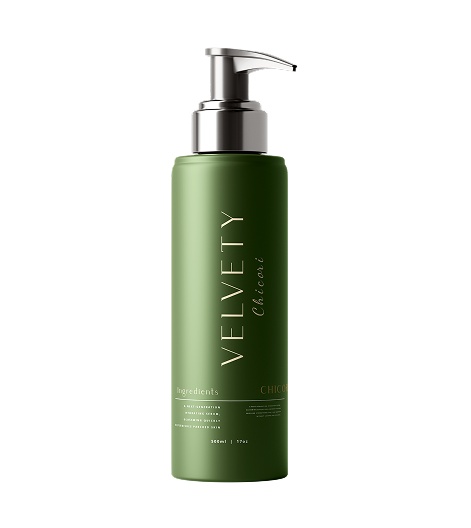
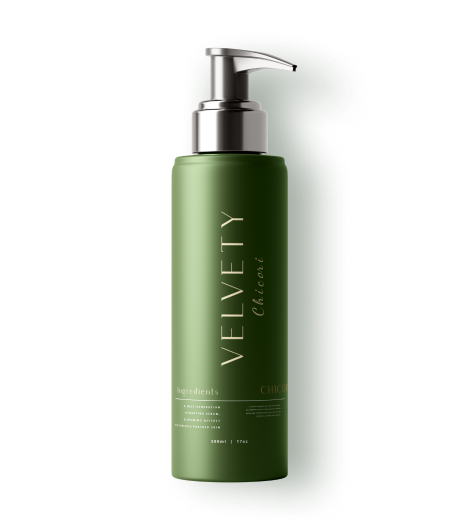
Build skindiagnosis section and update other sections code

diff --git a/src/components/SkinDiagnosis/SkinDiagnosis.jsx b/src/components/SkinDiagnosis/SkinDiagnosis.jsx
@@ -1,0 +1,121 @@
+import { useEffect, useRef, useState } from "react";
+
+import diagnosisImage from "../../assets/images/skin-diagnosis.png";
+
+const containerClass =
+  "mx-auto w-[min(calc(100%_-_128px),1380px)] max-[1600px]:w-[min(calc(100%_-_112px),1320px)] max-[1440px]:w-[min(calc(100%_-_96px),1240px)] max-[1280px]:w-[min(calc(100%_-_96px),1180px)] max-[1024px]:w-[calc(100%_-_72px)] max-[880px]:w-[calc(100%_-_48px)] max-[767px]:w-[calc(100%_-_30px)] max-[360px]:w-[calc(100%_-_26px)]";
+
+const sectionLabelClass =
+  "mb-[24px] mt-0 font-['Inter',sans-serif] text-[30px] font-normal leading-none tracking-[-0.035em] text-[#8fa58d] max-[1280px]:text-[26px] max-[767px]:mb-[16px] max-[767px]:text-[20px]";
+
+const sectionHeadingClass =
+  "m-0 font-['Cormorant_Garamond',serif] text-[clamp(58px,4.45vw,84px)] font-light leading-[1.08] tracking-[-0.056em] text-[#243f2a] max-[1440px]:text-[clamp(54px,4.6vw,74px)] max-[1280px]:text-[clamp(50px,4.65vw,64px)] max-[1024px]:text-[clamp(52px,6.2vw,68px)] max-[767px]:text-[clamp(38px,11vw,54px)] max-[430px]:text-[40px]";
+
+const ArrowIcon = ({ className = "" }) => (
+  <svg viewBox="0 0 64 24" aria-hidden="true" className={className}>
+    <path
+      d="M1 12H51"
+      fill="none"
+      stroke="currentColor"
+      strokeWidth="1.55"
+      strokeLinecap="round"
+      strokeLinejoin="round"
+    />
+    <path
+      d="M42 3C47 8 52 11 62 12C52 13 47 16 42 21"
+      fill="none"
+      stroke="currentColor"
+      strokeWidth="1.55"
+      strokeLinecap="round"
+      strokeLinejoin="round"
+    />
+  </svg>
+);
+
+const SkinDiagnosis = () => {
+  const sectionRef = useRef(null);
+  const [isVisible, setIsVisible] = useState(false);
+
+  useEffect(() => {
+    const currentSection = sectionRef.current;
+
+    if (!currentSection) return;
+
+    const observer = new IntersectionObserver(
+      ([entry]) => {
+        if (entry.isIntersecting) {
+          setIsVisible(true);
+        }
+      },
+      {
+        threshold: 0.18,
+      }
+    );
+
+    observer.observe(currentSection);
+
+    return () => observer.disconnect();
+  }, []);
+
+  const leftAnimation = isVisible
+    ? "translate-x-0 opacity-100 blur-0"
+    : "-translate-x-[34px] opacity-0 blur-[8px]";
+
+  const rightAnimation = isVisible
+    ? "translate-x-0 opacity-100 blur-0"
+    : "translate-x-[34px] opacity-0 blur-[8px]";
+
+  return (
+    <section
+      ref={sectionRef}
+      id="diagnosis"
+      className="relative z-0 w-full overflow-hidden border-b border-[#8fa58d]/35 bg-[#f2f6ef]"
+    >
+      {/* ==================== Skin Diagnosis Content ==================== */}
+      <div
+        className={`${containerClass} grid min-h-[clamp(500px,37vw,620px)] grid-cols-[42.5%_1fr] items-center gap-[clamp(70px,6vw,108px)] py-[clamp(66px,5.2vw,88px)] max-[1440px]:grid-cols-[43.5%_1fr] max-[1440px]:gap-[70px] max-[1280px]:grid-cols-[42%_1fr] max-[1280px]:gap-[58px] max-[1024px]:min-h-0 max-[1024px]:grid-cols-1 max-[1024px]:gap-[38px] max-[1024px]:py-[74px] max-[767px]:gap-[24px] max-[767px]:py-[56px]`}
+      >
+        {/* ==================== Left Image ==================== */}
+        <div
+          className={`relative mx-auto flex h-[clamp(320px,27vw,430px)] w-[min(100%,500px)] items-center justify-center transition-all duration-[950ms] ease-[cubic-bezier(0.22,1,0.36,1)] max-[1280px]:h-[390px] max-[1024px]:h-[360px] max-[767px]:h-[290px] max-[430px]:h-[260px] ${leftAnimation}`}
+        >
+          <img
+            src={diagnosisImage}
+            alt="Floral face line art"
+            className="block h-full w-full object-contain"
+          />
+        </div>
+
+        {/* ==================== Right Content ==================== */}
+        <div
+          className={`max-w-[760px] pb-[4px] transition-all delay-[120ms] duration-[950ms] ease-[cubic-bezier(0.22,1,0.36,1)] max-[1024px]:mx-auto max-[1024px]:max-w-[720px] max-[1024px]:pb-0 max-[1024px]:text-center ${rightAnimation}`}
+        >
+          <p className={sectionLabelClass}>Try Our Service</p>
+
+          <h2 className={sectionHeadingClass}>
+            <span className="block whitespace-nowrap max-[1024px]:whitespace-normal">
+              Your skin diagnosis in
+            </span>
+            <span className="block">3 minutes</span>
+          </h2>
+
+          <p className="mb-0 mt-[32px] max-w-[700px] font-['Inter',sans-serif] text-[clamp(20px,1.42vw,24px)] font-normal leading-[1.34] tracking-[-0.058em] text-[#4f744e] max-[1280px]:mt-[26px] max-[1280px]:text-[21px] max-[1024px]:mx-auto max-[767px]:mt-[20px] max-[767px]:text-[18px] max-[767px]:leading-[1.46]">
+            Say hello to a more radiant, healthier you with personalized
+            skincare that&apos;s as unique as you are.
+          </p>
+
+          <a
+            href="#contact"
+            className="group mt-[46px] inline-flex h-[64px] w-[306px] items-center justify-center gap-[20px] border border-[#243f2a] bg-transparent font-['Inter',sans-serif] text-[20px] font-normal leading-none tracking-[-0.045em] text-[#243f2a] no-underline transition duration-300 hover:bg-[#243f2a] hover:text-[#f7faf4] max-[1280px]:mt-[38px] max-[1280px]:h-[60px] max-[1280px]:w-[286px] max-[1280px]:text-[19px] max-[767px]:mt-[32px] max-[767px]:h-[54px] max-[767px]:w-[244px] max-[767px]:gap-[15px] max-[767px]:text-[16px]"
+          >
+            <span>Start my diagnosis</span>
+
+            <ArrowIcon className="h-[18px] w-[34px] transition-transform duration-300 group-hover:translate-x-[6px] max-[767px]:h-[17px] max-[767px]:w-[30px]" />
+          </a>
+        </div>
+      </div>
+    </section>
+  );
+};
+
+export default SkinDiagnosis;

diff --git a/src/components/AboutSection/AboutSection.jsx b/src/components/AboutSection/AboutSection.jsx
@@ -11,6 +11,15 @@ import "./AboutSection.css";
 const containerClass =
   "mx-auto w-[min(calc(100%_-_128px),1380px)] max-[1600px]:w-[min(calc(100%_-_112px),1320px)] max-[1440px]:w-[min(calc(100%_-_96px),1240px)] max-[1280px]:w-[min(calc(100%_-_96px),1180px)] max-[1024px]:w-[calc(100%_-_72px)] max-[880px]:w-[calc(100%_-_48px)] max-[767px]:w-[calc(100%_-_30px)] max-[360px]:w-[calc(100%_-_26px)]";
 
+const sectionLabelClass =
+  "mb-[24px] mt-0 font-['Inter',sans-serif] text-[30px] font-normal leading-none tracking-[-0.035em] text-[#8fa58d] max-[1280px]:text-[26px] max-[767px]:mb-[16px] max-[767px]:text-[20px]";
+
+const sectionHeadingClass =
+  "m-0 font-['Cormorant_Garamond',serif] text-[clamp(56px,4.2vw,82px)] font-light leading-[1.08] tracking-[-0.056em] text-[#243f2a] max-[1440px]:text-[clamp(50px,4.35vw,62px)] max-[1280px]:text-[clamp(48px,4.25vw,58px)] max-[1024px]:text-[clamp(52px,6.2vw,68px)] max-[767px]:text-[clamp(38px,11vw,54px)] max-[430px]:text-[40px]";
+
+const bodyTextClass =
+  "font-['Inter',sans-serif] text-[clamp(20px,1.42vw,24px)] font-normal leading-[1.34] tracking-[-0.058em] text-[#4f744e] max-[1280px]:text-[21px] max-[767px]:text-[18px] max-[767px]:leading-[1.46]";
+
 const brandLogos = [
   {
     id: 1,
@@ -107,35 +116,38 @@ const AboutSection = () => {
     <section
       ref={sectionRef}
       id="about"
-      className="relative w-full overflow-hidden bg-[#f2f6ef]"
+      className="relative z-0 w-full overflow-hidden border-b border-[#8fa58d]/35 bg-[#f2f6ef]"
     >
       {/* ==================== About Content ==================== */}
       <div
-        className={`${containerClass} grid grid-cols-[45.85%_1fr] gap-[clamp(74px,7vw,128px)] pb-[clamp(88px,6.2vw,116px)] pt-[clamp(84px,6.35vw,118px)] max-[1280px]:gap-[68px] max-[1024px]:grid-cols-1 max-[1024px]:gap-[44px] max-[1024px]:pb-[78px] max-[1024px]:pt-[76px] max-[767px]:gap-[32px] max-[767px]:pb-[58px] max-[767px]:pt-[56px]`}
+        className={`${containerClass} grid grid-cols-[46.8%_1fr] gap-[clamp(70px,6.4vw,118px)] pb-[clamp(86px,6vw,112px)] pt-[clamp(84px,6.2vw,116px)] max-[1440px]:grid-cols-[48.5%_1fr] max-[1440px]:gap-[70px] max-[1280px]:gap-[60px] max-[1024px]:grid-cols-1 max-[1024px]:gap-[44px] max-[1024px]:pb-[78px] max-[1024px]:pt-[76px] max-[767px]:gap-[32px] max-[767px]:pb-[58px] max-[767px]:pt-[56px]`}
       >
         <div
-          className={`transition-all duration-[950ms] ease-[cubic-bezier(0.22,1,0.36,1)] ${leftAnimation}`}
+          className={`max-w-[720px] transition-all duration-[950ms] ease-[cubic-bezier(0.22,1,0.36,1)] ${leftAnimation}`}
         >
-          <p className="mb-[26px] mt-0 font-['Inter',sans-serif] text-[clamp(24px,1.9vw,34px)] font-normal leading-none tracking-[-0.055em] text-[#8fa58d] max-[767px]:mb-[18px] max-[767px]:text-[22px]">
-            About us
-          </p>
+          <p className={sectionLabelClass}>About us</p>
 
-          <h2 className="m-0 max-w-[610px] font-['Cormorant_Garamond',serif] text-[clamp(58px,4.9vw,84px)] font-light leading-[1.08] tracking-[-0.058em] text-[#243f2a] max-[1440px]:text-[clamp(54px,5vw,76px)] max-[1024px]:max-w-[720px] max-[767px]:text-[clamp(42px,12vw,58px)]">
-            Velvety facial and skincare company
+          <h2 className={sectionHeadingClass}>
+            <span className="block whitespace-nowrap max-[767px]:whitespace-normal">
+              Velvety facial and
+            </span>
+            <span className="block whitespace-nowrap max-[767px]:whitespace-normal">
+              skincare company
+            </span>
           </h2>
         </div>
 
         <div
           className={`pt-[4px] transition-all delay-[120ms] duration-[950ms] ease-[cubic-bezier(0.22,1,0.36,1)] max-[1024px]:pt-0 ${rightAnimation}`}
         >
-          <p className="m-0 max-w-[730px] font-['Inter',sans-serif] text-[clamp(20px,1.42vw,24px)] font-normal leading-[1.34] tracking-[-0.058em] text-[#4f744e] max-[1280px]:text-[21px] max-[767px]:text-[18px] max-[767px]:leading-[1.46]">
+          <p className={`m-0 max-w-[730px] ${bodyTextClass}`}>
             Velvety is an indigenous company that specializes in the manufacture
             and development of facial and skincare products using the medicinal
             properties of the traditional First Nations pharmacopoeia, with a
             concern for sustainable development.
           </p>
 
-          <p className="mb-0 mt-[36px] max-w-[800px] font-['Inter',sans-serif] text-[clamp(20px,1.42vw,24px)] font-normal leading-[1.34] tracking-[-0.058em] text-[#4f744e] max-[1280px]:text-[21px] max-[767px]:mt-[24px] max-[767px]:text-[18px] max-[767px]:leading-[1.46]">
+          <p className={`mb-0 mt-[36px] max-w-[800px] max-[767px]:mt-[24px] ${bodyTextClass}`}>
             The products offered, whose benefits have been scientifically
             confirmed, are 100% natural and allow you to take care of your body
             and mind: calming teas, energizing infusions, anti-inflammatory
@@ -144,13 +156,9 @@ const AboutSection = () => {
         </div>
       </div>
 
-      {/* ==================== Divider ==================== */}
+      {/* ==================== Stable Divider ==================== */}
       <div className={containerClass}>
-        <div
-          className={`h-px w-full origin-left bg-[#8fa58d]/30 transition-transform duration-[1100ms] ease-[cubic-bezier(0.22,1,0.36,1)] ${
-            isVisible ? "scale-x-100" : "scale-x-0"
-          }`}
-        />
+        <div className="h-px w-full bg-[#8fa58d]/30" />
       </div>
 
       {/* ==================== Brand Logos ==================== */}
@@ -158,7 +166,7 @@ const AboutSection = () => {
         className={`${containerClass} pb-[clamp(76px,6.1vw,108px)] pt-[clamp(82px,6.25vw,116px)] max-[1024px]:pb-[76px] max-[1024px]:pt-[72px] max-[767px]:pb-[58px] max-[767px]:pt-[52px]`}
       >
         <p
-          className={`mb-[clamp(48px,3.85vw,70px)] mt-0 font-['Inter',sans-serif] text-[clamp(24px,1.9vw,34px)] font-normal leading-none tracking-[-0.055em] text-[#8fa58d] transition-all delay-[160ms] duration-[900ms] ease-[cubic-bezier(0.22,1,0.36,1)] max-[767px]:mb-[34px] max-[767px]:text-[22px] ${upAnimation}`}
+          className={`mb-[clamp(48px,3.85vw,70px)] mt-0 font-['Inter',sans-serif] text-[30px] font-normal leading-none tracking-[-0.035em] text-[#8fa58d] transition-all delay-[160ms] duration-[900ms] ease-[cubic-bezier(0.22,1,0.36,1)] max-[1280px]:text-[26px] max-[767px]:mb-[34px] max-[767px]:text-[20px] ${upAnimation}`}
         >
           As seen in
         </p>

diff --git a/src/components/AllProducts/AllProducts.jsx b/src/components/AllProducts/AllProducts.jsx
@@ -8,6 +8,15 @@ import lightcoolImage from "../../assets/images/all-products/all-lightcool.png";
 const containerClass =
   "mx-auto w-[min(calc(100%_-_128px),1380px)] max-[1600px]:w-[min(calc(100%_-_112px),1320px)] max-[1440px]:w-[min(calc(100%_-_96px),1240px)] max-[1280px]:w-[min(calc(100%_-_96px),1180px)] max-[1024px]:w-[calc(100%_-_72px)] max-[880px]:w-[calc(100%_-_48px)] max-[767px]:w-[calc(100%_-_30px)] max-[360px]:w-[calc(100%_-_26px)]";
 
+const sectionLabelClass =
+  "mb-[24px] mt-0 font-['Inter',sans-serif] text-[30px] font-normal leading-none tracking-[-0.035em] text-[#8fa58d] max-[1280px]:text-[26px] max-[767px]:mb-[16px] max-[767px]:text-[20px]";
+
+const sectionHeadingClass =
+  "m-0 max-w-[520px] font-['Cormorant_Garamond',serif] text-[clamp(56px,4.2vw,82px)] font-light leading-[1.08] tracking-[-0.056em] text-[#243f2a] max-[1440px]:text-[clamp(52px,4.25vw,72px)] max-[1280px]:text-[clamp(48px,4.9vw,64px)] max-[767px]:text-[clamp(38px,11vw,54px)] max-[430px]:text-[40px]";
+
+const shopButtonClass =
+  "group mx-auto mt-[42px] flex h-[64px] w-[206px] items-center justify-center gap-[20px] border border-[#243f2a] bg-transparent font-['Inter',sans-serif] text-[20px] font-normal leading-none tracking-[-0.045em] text-[#243f2a] no-underline transition duration-300 hover:bg-[#243f2a] hover:text-[#f7faf4] max-[1280px]:mt-[38px] max-[1280px]:h-[60px] max-[1280px]:w-[190px] max-[1280px]:text-[19px] max-[767px]:mt-[34px] max-[767px]:h-[54px] max-[767px]:w-[160px] max-[767px]:gap-[14px] max-[767px]:text-[16px]";
+
 const tabs = [
   { id: "all-needs", label: "All needs" },
   { id: "protect", label: "Protect" },
@@ -123,7 +132,7 @@ const CartIcon = () => (
       fill="currentColor"
     />
     <path
-      d="M18 21C18.5523 21 19 20.5523 19 20C19 19.4477 18.5523 19 18 19C17.4477 19 17 19.4477 17 20C17 20.5523 17.4477 21 18 21Z"
+      d="M18 21C18.5523 21 19 20.5523 19 20C19 19.4477 18.5523 19 18 19C17.4477 19 17 20.5523 17 20C17 20.5523 17.4477 21 18 21Z"
       fill="currentColor"
     />
   </svg>
@@ -364,11 +373,14 @@ const AllProducts = () => {
     <section
       ref={sectionRef}
       id="all-products"
-      className="relative w-full overflow-hidden border-y border-[#8fa58d]/35 bg-[#f2f6ef]"
+      className="relative z-0 w-full overflow-hidden bg-[#f2f6ef]"
     >
+      {/* ==================== Top Border ==================== */}
+      <div className="h-px w-full bg-[#8fa58d]/35" />
+
       {/* ==================== Main Layout ==================== */}
       <div
-        className={`${containerClass} grid min-h-[clamp(900px,70vw,1120px)] grid-cols-[42.2%_1fr] gap-[clamp(58px,6.1vw,96px)] pb-[clamp(72px,6vw,98px)] pt-[clamp(82px,6.6vw,112px)] max-[1280px]:grid-cols-[43%_1fr] max-[1280px]:gap-[54px] max-[1024px]:min-h-0 max-[1024px]:grid-cols-1 max-[1024px]:gap-[58px] max-[1024px]:pb-[78px] max-[1024px]:pt-[76px] max-[767px]:gap-[42px] max-[767px]:pb-[58px] max-[767px]:pt-[56px]`}
+        className={`${containerClass} grid grid-cols-[42.2%_1fr] gap-[clamp(58px,6.1vw,96px)] pb-[clamp(74px,5.65vw,96px)] pt-[clamp(82px,6.2vw,108px)] max-[1280px]:grid-cols-[43%_1fr] max-[1280px]:gap-[54px] max-[1024px]:grid-cols-1 max-[1024px]:gap-[58px] max-[1024px]:pb-[78px] max-[1024px]:pt-[76px] max-[767px]:gap-[42px] max-[767px]:pb-[58px] max-[767px]:pt-[56px]`}
       >
         {/* ==================== Left Content ==================== */}
         <div
@@ -378,11 +390,9 @@ const AllProducts = () => {
               : "-translate-x-[34px] opacity-0 blur-[8px]"
           }`}
         >
-          <p className="mb-[24px] mt-0 font-['Inter',sans-serif] text-[clamp(22px,1.75vw,30px)] font-normal leading-none tracking-[-0.055em] text-[#8fa58d] max-[767px]:mb-[18px] max-[767px]:text-[21px]">
-            All Products
-          </p>
+          <p className={sectionLabelClass}>All Products</p>
 
-          <h2 className="m-0 max-w-[520px] font-['Cormorant_Garamond',serif] text-[clamp(54px,4.45vw,78px)] font-light leading-[1.12] tracking-[-0.058em] text-[#243f2a] max-[1280px]:text-[clamp(50px,4.75vw,68px)] max-[767px]:text-[clamp(42px,12vw,58px)]">
+          <h2 className={sectionHeadingClass}>
             Mild skincare &amp; facial routine
           </h2>
 
@@ -495,13 +505,10 @@ const AllProducts = () => {
                 ))}
               </div>
 
-              <a
-                href="#shop"
-                className="group mx-auto mt-[42px] flex h-[52px] w-[170px] items-center justify-center gap-[14px] border border-[#243f2a] bg-transparent font-['Inter',sans-serif] text-[15px] font-normal leading-none text-[#243f2a] no-underline transition duration-300 hover:bg-[#243f2a] hover:text-[#f7faf4] max-[767px]:mt-[34px]"
-              >
+              <a href="#shop" className={shopButtonClass}>
                 <span>Shop now</span>
 
-                <ArrowIcon className="h-[18px] w-[28px] transition-transform duration-300 group-hover:translate-x-[5px]" />
+                <ArrowIcon className="h-[18px] w-[34px] transition-transform duration-300 group-hover:translate-x-[6px] max-[767px]:h-[17px] max-[767px]:w-[30px]" />
               </a>
             </>
           ) : (
@@ -526,6 +533,9 @@ const AllProducts = () => {
           )}
         </div>
       </div>
+
+      {/* ==================== Bottom Border ==================== */}
+      <div className="h-px w-full bg-[#8fa58d]/35" />
 
       {/* ==================== Quick View Modal ==================== */}
       <div
@@ -592,7 +602,7 @@ const AllProducts = () => {
                 <button
                   type="button"
                   onClick={() => addToCart(quickViewProduct)}
-                  className="h-[50px] flex-1 cursor-pointer border-0 bg-[#243f2a] font-['Inter',sans-serif] text-[13px] font-medium uppercase tracking-[0.14em] text-white transition hover:bg-[#1a2f1f]"
+                  className="h-[50px] flex-1 cursor-pointer border-0 bg-[#243f2a] font-['Inter',sans-serif] text-[14px] font-medium uppercase tracking-[0.14em] text-white transition hover:bg-[#1a2f1f]"
                 >
                   Add to cart
                 </button>
@@ -600,7 +610,7 @@ const AllProducts = () => {
                 <button
                   type="button"
                   onClick={() => toggleWishlist(quickViewProduct)}
-                  className="h-[50px] flex-1 cursor-pointer border border-[#8fa58d]/45 bg-transparent font-['Inter',sans-serif] text-[13px] font-medium uppercase tracking-[0.14em] text-[#243f2a] transition hover:bg-[#e6eee2]"
+                  className="h-[50px] flex-1 cursor-pointer border border-[#8fa58d]/45 bg-transparent font-['Inter',sans-serif] text-[14px] font-medium uppercase tracking-[0.14em] text-[#243f2a] transition hover:bg-[#e6eee2]"
                 >
                   Wishlist
                 </button>

diff --git a/src/components/Home/Home.jsx b/src/components/Home/Home.jsx
@@ -3,6 +3,7 @@ import TraditionSection from "../TraditionSection/TraditionSection";
 import FeaturedProducts from "../FeaturedProducts/FeaturedProducts";
 import AboutSection from "../AboutSection/AboutSection";
 import AllProducts from "../AllProducts/AllProducts";
+import SkinDiagnosis from "../SkinDiagnosis/SkinDiagnosis";
 
 const Home = () => {
   return (
@@ -21,6 +22,9 @@ const Home = () => {
 
       {/* ==================== All Products Section ==================== */}
       <AllProducts />
+
+      {/* ==================== Skin Diagnosis Section ==================== */}
+      <SkinDiagnosis />
     </main>
   );
 };